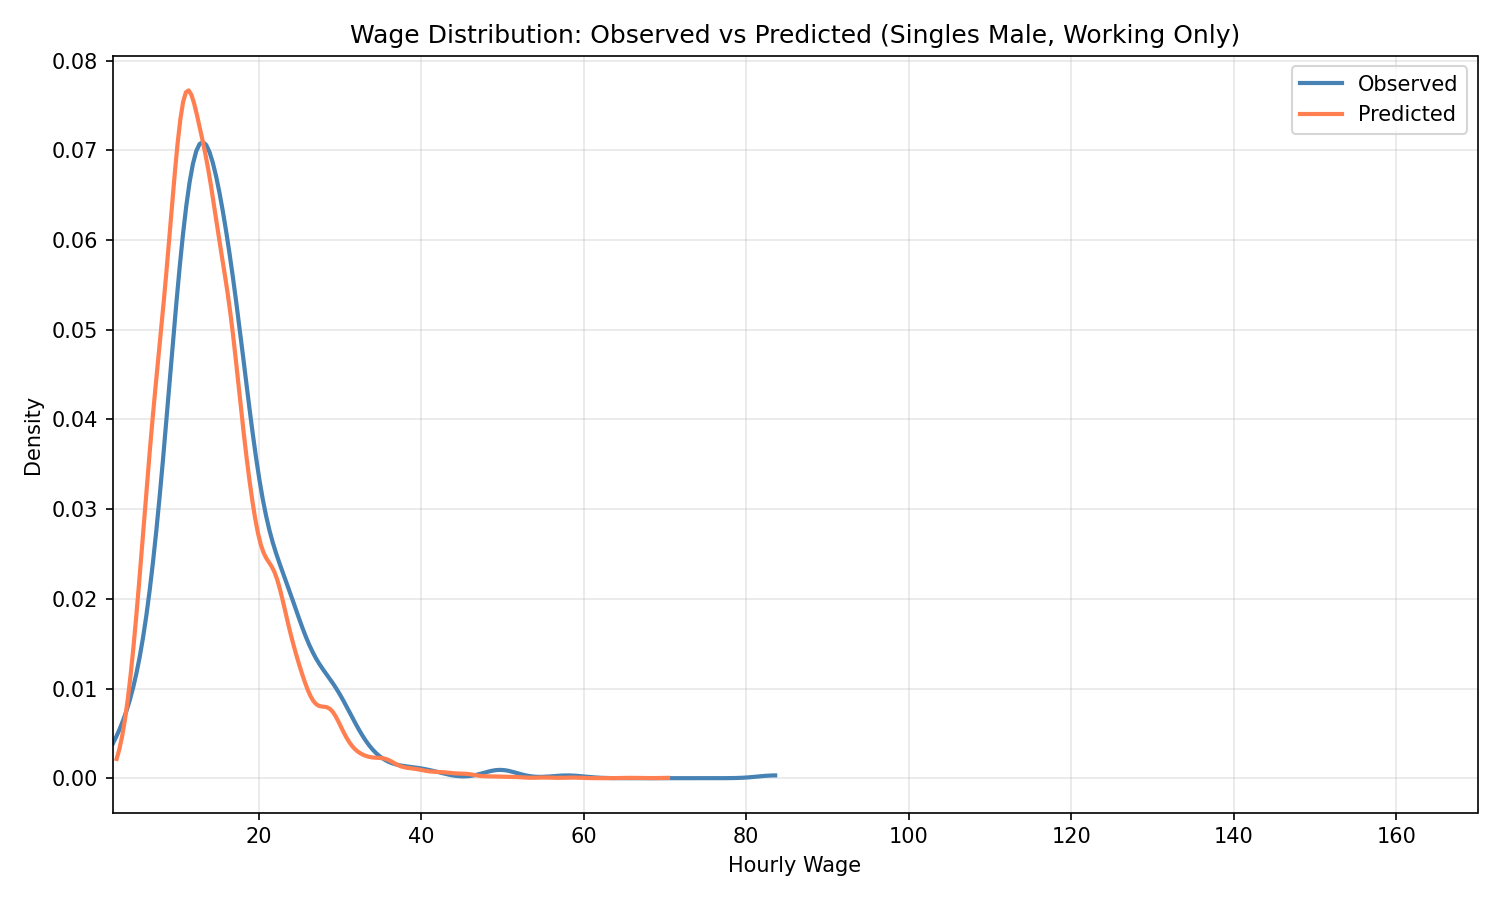
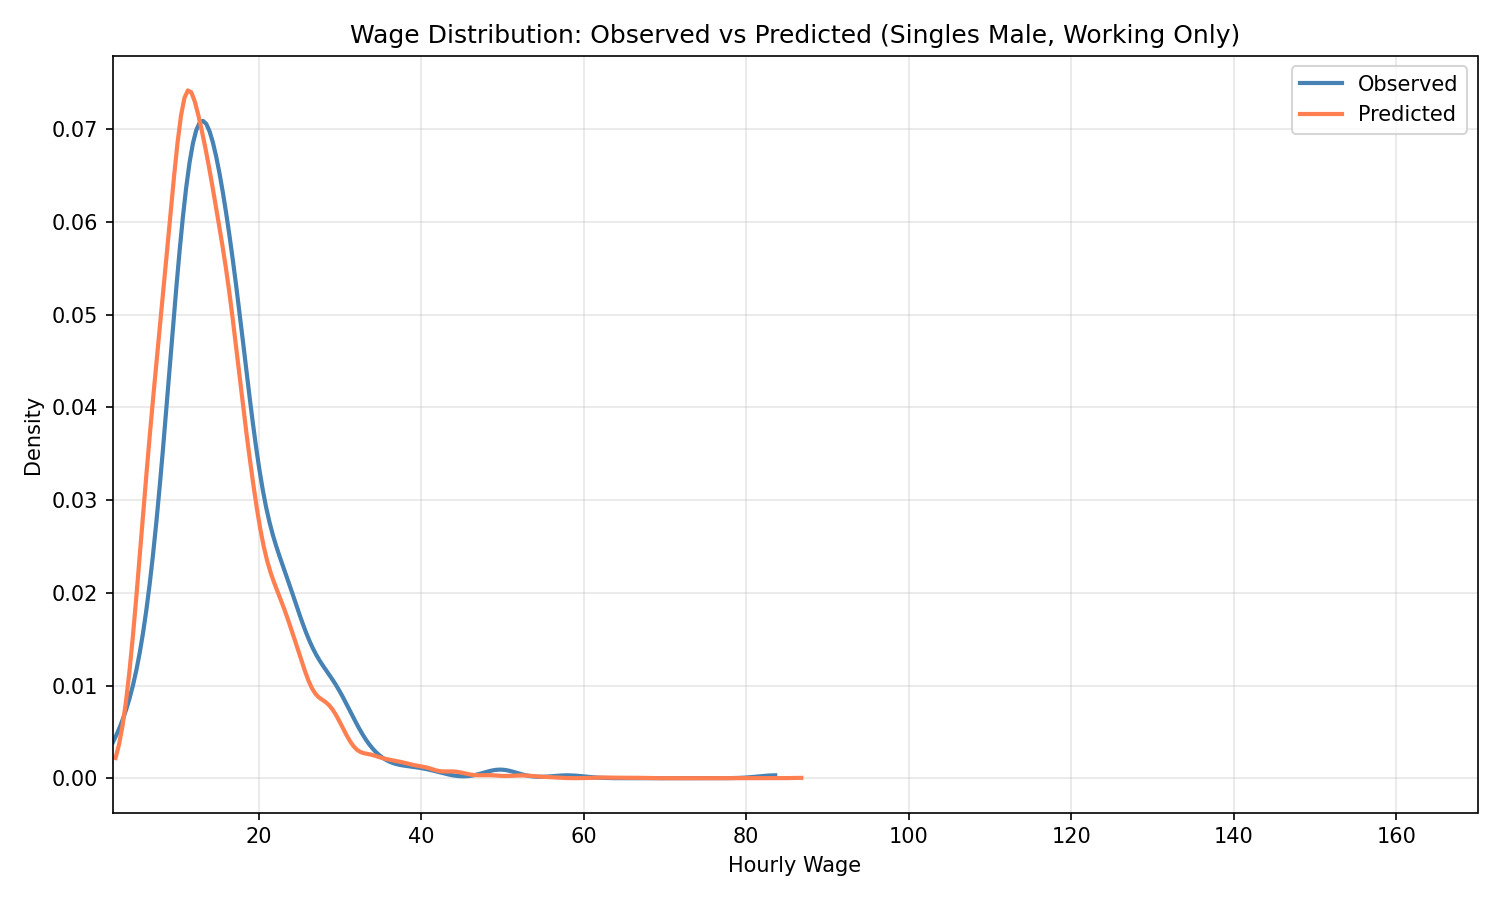
Refactor code structure for improved readability and maintainability

diff --git a/outputs/trial_singles2016/trial_singles2016_llm_summary_20260712_123905.md b/outputs/trial_singles2016/trial_singles2016_llm_summary_20260712_123905.md
@@ -1,6 +1,6 @@
 # RURO Low-Token Post-Estimation Summary
 
-Generated: 2026-07-11T12:31:33
+Generated: 2026-07-12T12:39:08
 
 ## Purpose
 
@@ -12,7 +12,7 @@ Figures and large HTML output are intentionally omitted.
 | item | path_or_value |
 | --- | --- |
 | estimation_results_json | outputs\trial_singles2016\estimation_results_trial_singles2016.json |
-| html_report | outputs\trial_singles2016\trial_singles2016_post_estimation_report_20260711_123130.html |
+| html_report | outputs\trial_singles2016\trial_singles2016_post_estimation_report_20260712_123905.html |
 | post_output_dir | outputs\trial_singles2016 |
 | params_csv | outputs\trial_singles2016\trial_singles2016_params.csv |
 | elasticities_csv | outputs\trial_singles2016\trial_singles2016_elasticities.csv |
@@ -36,7 +36,7 @@ Figures and large HTML output are intentionally omitted.
 
 | field | value |
 | --- | --- |
-| git_sha | aee0a15aad66 |
+| git_sha | 0e31d4974682 |
 | git_branch | main |
 | git_dirty | 1 |
 
